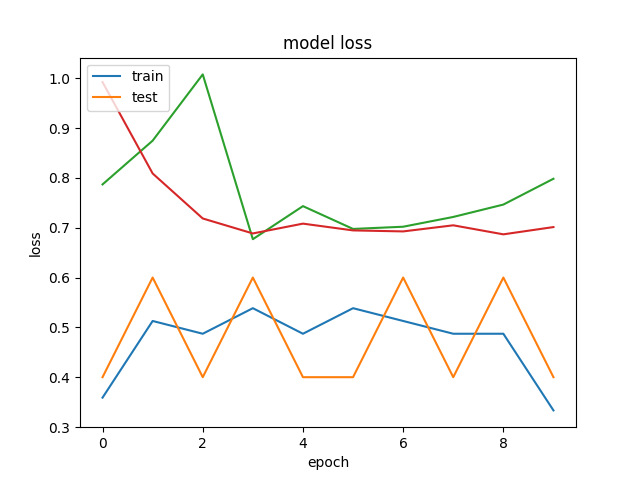
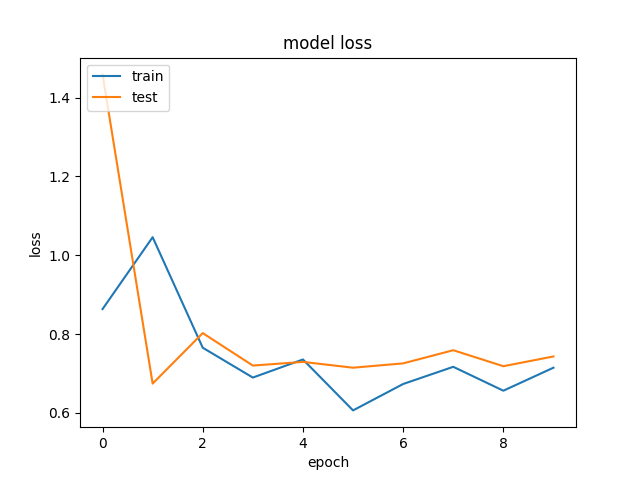
clear old plot

diff --git a/train.py b/train.py
@@ -70,6 +70,7 @@ plt.ylabel('accuracy')
 plt.xlabel('epoch')
 plt.legend(['train', 'test'], loc='upper left')
 plt.savefig('accuracy.png')
+plt.clf()
 
 # summarize history for loss
 plt.plot(history.history['loss'])
@@ -79,6 +80,7 @@ plt.ylabel('loss')
 plt.xlabel('epoch')
 plt.legend(['train', 'test'], loc='upper left')
 plt.savefig('loss.png')
+plt.clf()
 
 score, acc = model.evaluate(X_test, y_test, batch_size=1)
 print('Test score:', score)
